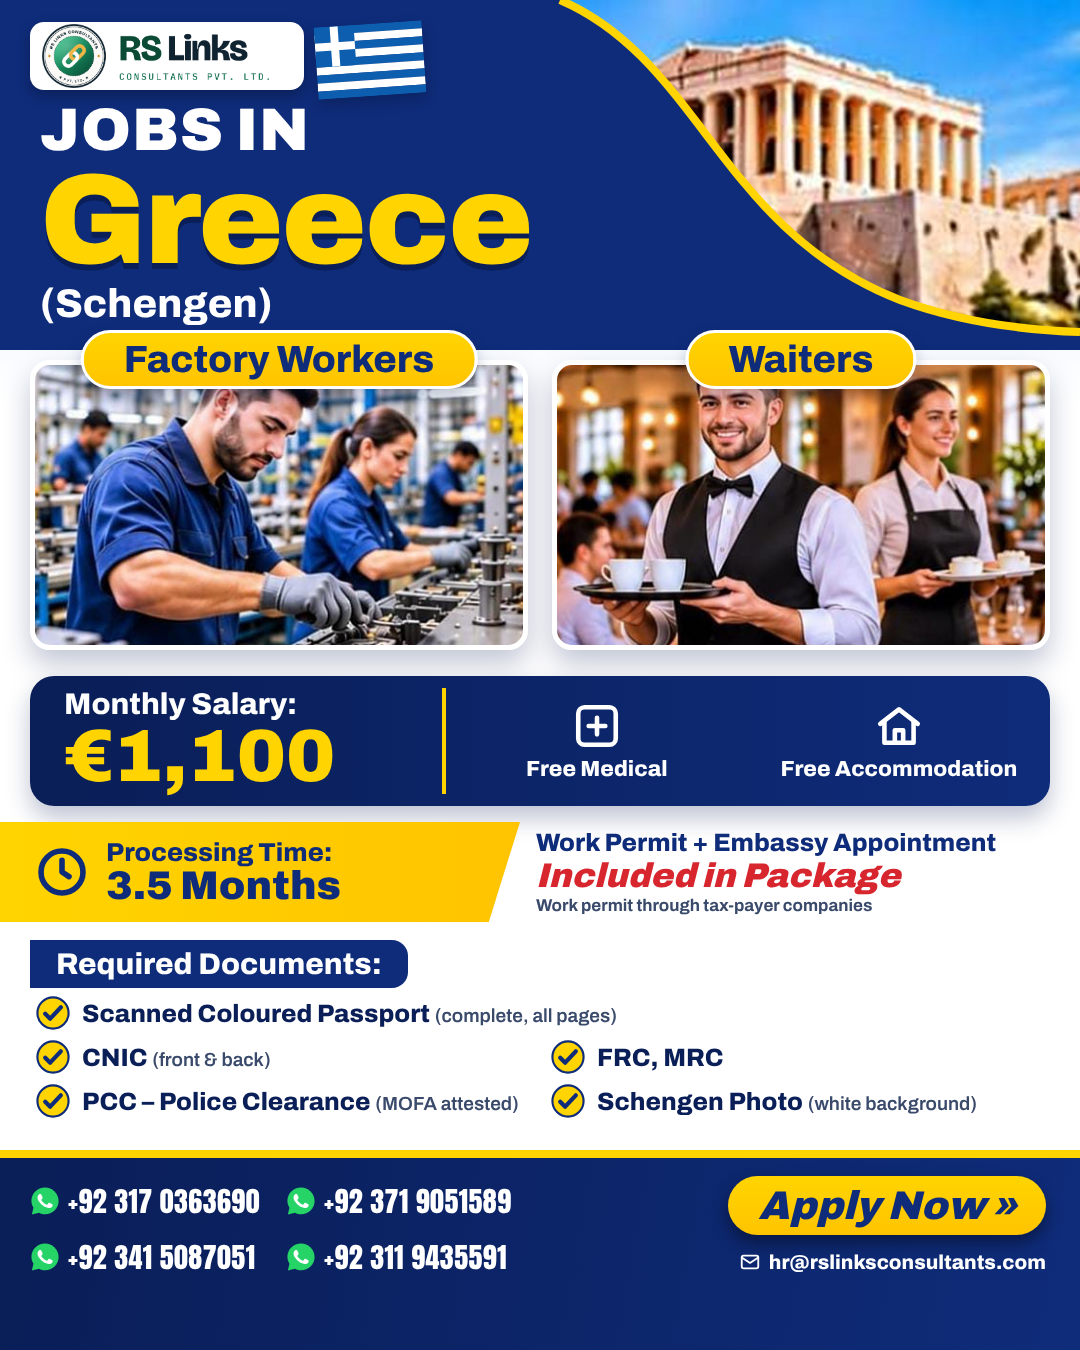
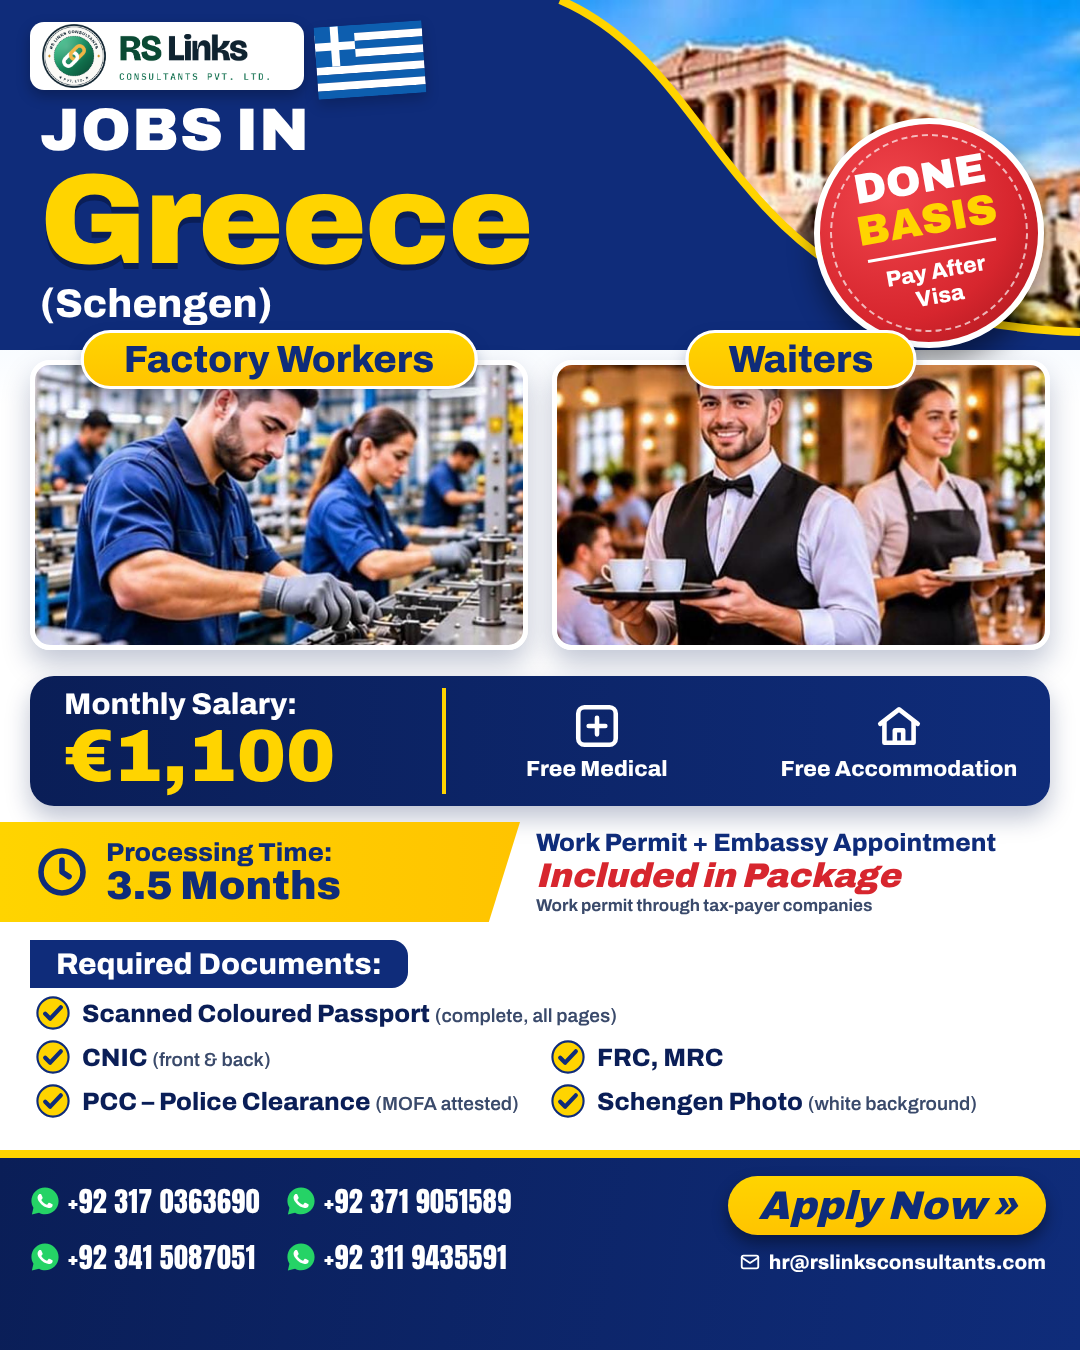
Greece v5: Done basis / pay after visa stamp
Claude-Session: https://claude.ai/code/session_01YJ5ofgU8QCiWTsYR9pvXG4

Changed region(s): [[0.7333, 0.0622, 0.9778, 0.28]]

diff --git a/src/greece_factory_waiters_v5.py b/src/greece_factory_waiters_v5.py
@@ -42,6 +42,11 @@ def build():
  <div style='font:900 128px Archivo;color:{YEL};line-height:.95;letter-spacing:-2px;text-shadow:0 6px 0 {NAVY2}'>Greece</div>
  <div style='font:800 40px Archivo;color:#fff;line-height:1.1'>(Schengen)</div></div>
 
+<div class='abs' style='top:118px;right:36px;width:230px;height:230px;border-radius:50%;background:radial-gradient(circle at 35% 30%,#F0454C,{RED} 60%,#A3141B);border:6px solid #fff;box-shadow:0 14px 28px #0007;transform:rotate(-10deg);display:flex;flex-direction:column;align-items:center;justify-content:center;text-align:center'>
+ <div style='position:absolute;inset:10px;border-radius:50%;border:2px dashed #ffffffaa'></div>
+ <div style='font:900 42px Archivo;color:#fff;line-height:1'>DONE</div><div style='font:900 42px Archivo;color:{YEL};line-height:1'>BASIS</div>
+ <div style='width:130px;height:3px;background:#fff;margin:8px 0'></div>
+ <div style='font:800 22px Archivo;color:#fff;line-height:1.1'>Pay After<br>Visa</div></div>
 <div class='abs' style='top:330px;left:30px;right:30px;display:flex;gap:24px'>{panel(P("gr_factory_ref.jpg"), "Factory Workers", "center 30%")}{panel(P("gr_waiters_ref.jpg"), "Waiters", "center 25%")}</div>
 
 <div class='abs' style='top:676px;left:30px;right:30px;height:130px;border-radius:24px;background:linear-gradient(90deg,{NAVY2},{NAVY});display:flex;align-items:center;box-shadow:0 12px 24px #0A1E5744'>

diff --git a/CLAUDE.md b/CLAUDE.md
@@ -61,6 +61,7 @@ TODO — confirm/adjust. Defaults until specified otherwise:
   5. Apply standing rules from past feedback without being reminded, and keep the sheet in sync.
 - **Never write the word "visa" on any ad** (user, 2026-11-13). Describe the package without it
   (e.g. "Work Permit + Embassy Appointment included", "Ticket + Protector included").
+  Exception the user asked for (2026-11-13): on done-basis demands, "DONE BASIS – Pay After Visa" is allowed.
 - **Vary the design every time** (user, 2026-10-15: "all ads seem to be in same design and theme").
   Before building, read the last 3–4 rows of `output/design-log.md` and pick a different palette,
   layout family and hero treatment (e.g. full-bleed photo poster, magazine collage, split columns,
